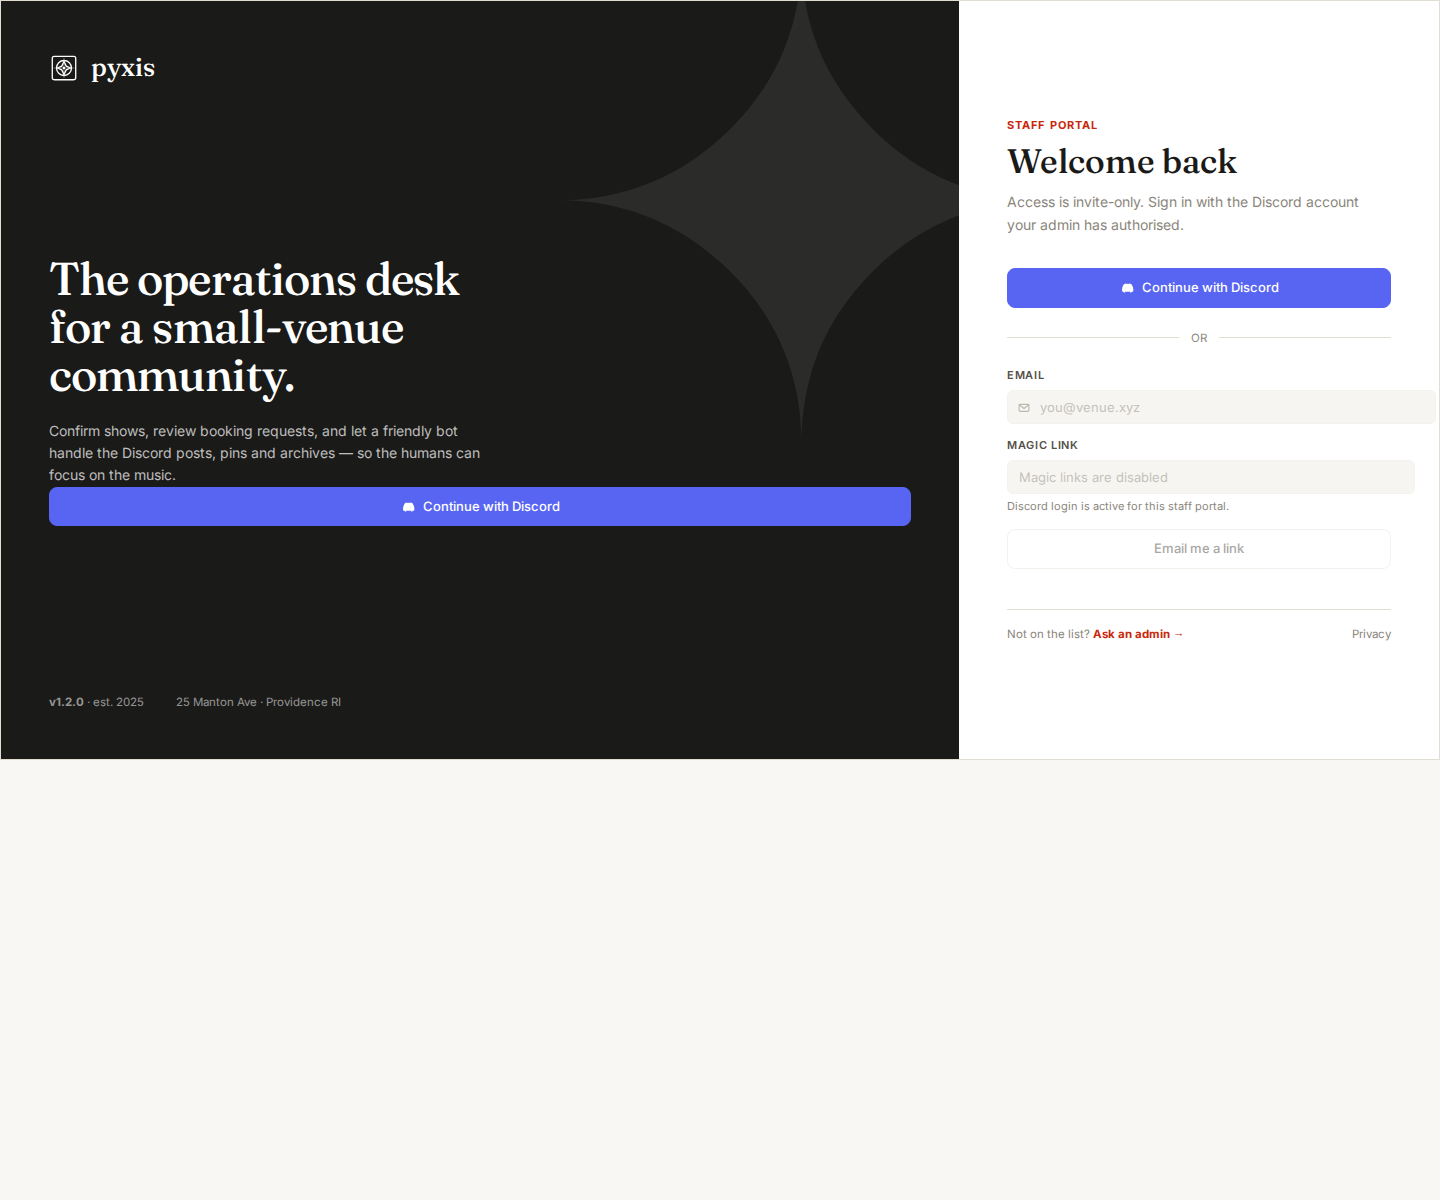
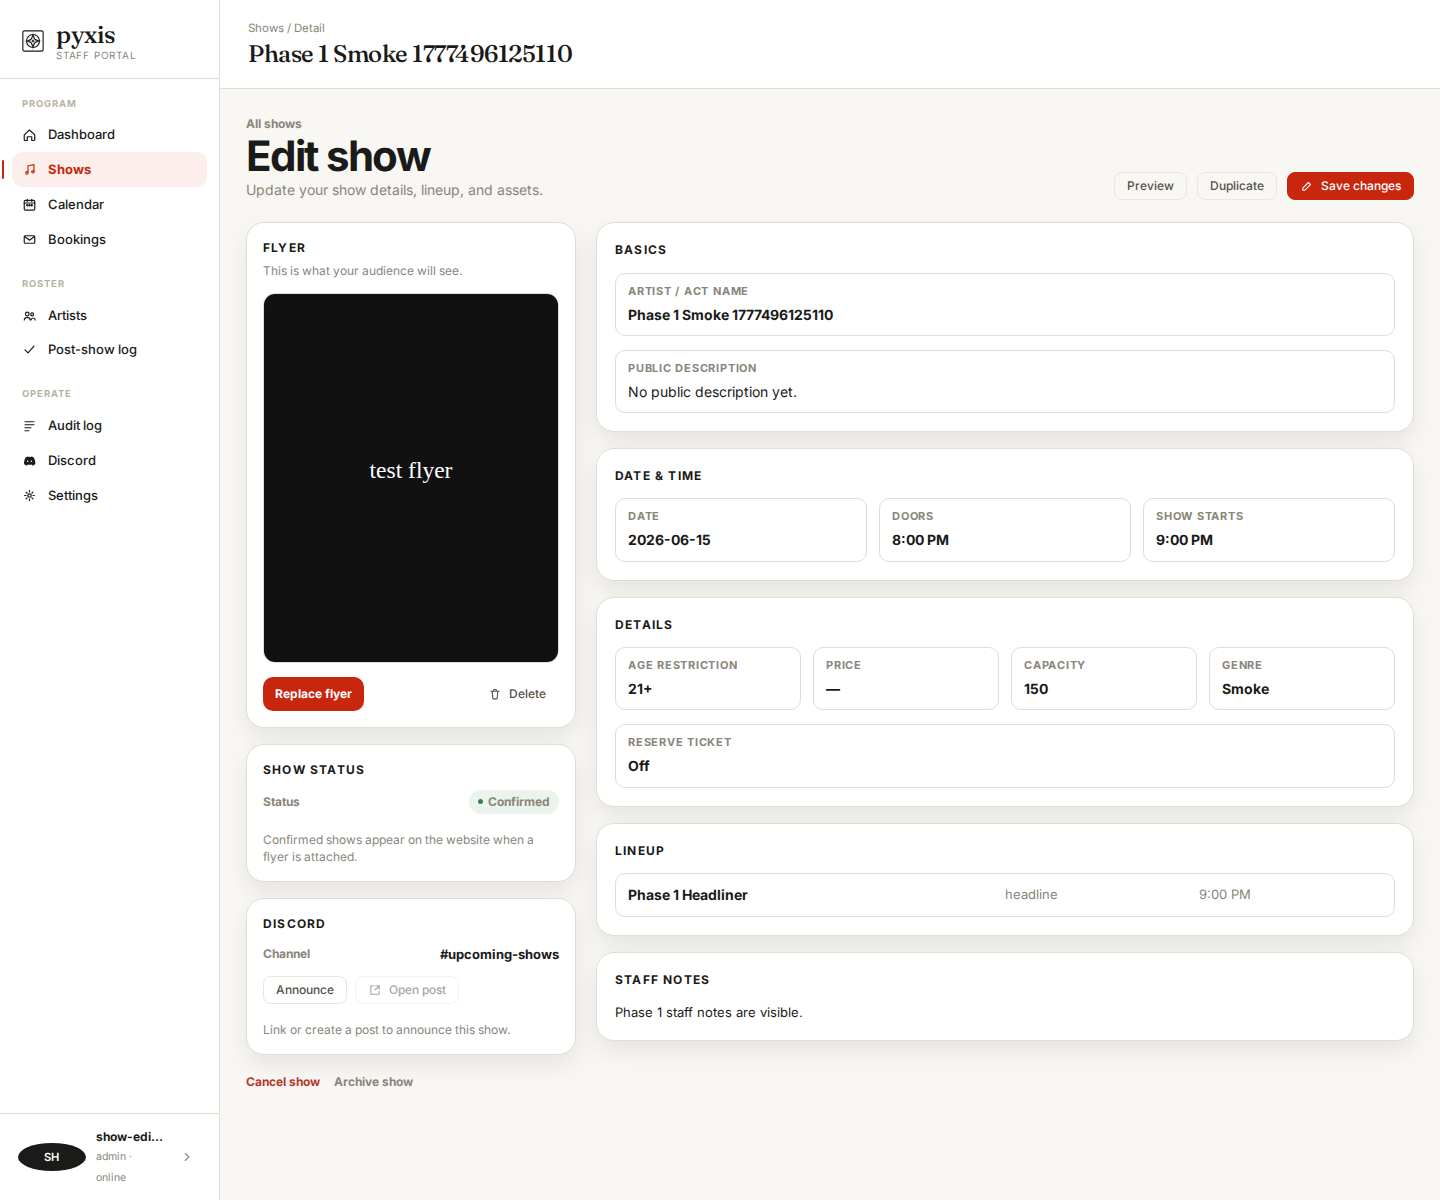
PYXIS-SHOW-EDIT-VISUAL-REDESIGN: authenticate show edit smoke

diff --git a/ttmp/2026/04/29/PYXIS-SHOW-EDIT-VISUAL-REDESIGN--redesign-pyxis-show-edit-modal-and-show-edit-page/scripts/04-smoke-show-edit-page.js b/ttmp/2026/04/29/PYXIS-SHOW-EDIT-VISUAL-REDESIGN--redesign-pyxis-show-edit-modal-and-show-edit-page/scripts/04-smoke-show-edit-page.js
@@ -14,6 +14,8 @@ await fs.mkdir(outDir, { recursive: true });
 const browser = await chromium.launch({ headless: true });
 try {
   const page = await browser.newPage({ viewport: { width: 1440, height: 1200 }, deviceScaleFactor: 1 });
+  const loginUrl = `${baseUrl}/auth/dev-login?username=show-edit-smoke&role=admin`;
+  await page.goto(loginUrl, { waitUntil: 'networkidle' });
   const url = `${baseUrl}/shows/${showId}`;
   await page.goto(url, { waitUntil: 'networkidle' });
   const title = await page.title();
@@ -27,6 +29,9 @@ try {
     await page.getByText('Edit show').first().waitFor({ timeout: 15000 });
     await page.getByText('Basics').first().waitFor({ timeout: 15000 });
     await page.getByText('Flyer').first().waitFor({ timeout: 15000 });
+    await page.getByRole('button', { name: /save changes/i }).click();
+    await page.getByRole('dialog').waitFor({ timeout: 15000 });
+    await page.getByRole('button', { name: /^cancel$/i }).click();
   }
   const screenshot = path.join(outDir, `show-${showId}-page.png`);
   await page.screenshot({ path: screenshot, fullPage: true });

diff --git a/ttmp/2026/04/29/PYXIS-SHOW-EDIT-VISUAL-REDESIGN--redesign-pyxis-show-edit-modal-and-show-edit-page/reference/01-show-edit-visual-redesign-diary.md b/ttmp/2026/04/29/PYXIS-SHOW-EDIT-VISUAL-REDESIGN--redesign-pyxis-show-edit-modal-and-show-edit-page/reference/01-show-edit-visual-redesign-diary.md
@@ -508,3 +508,45 @@ Result:
 ```
 
 This confirms the local route is auth-gated in the current dev session. It does not yet validate the authenticated edit view. Task T604 remains open for a future authenticated smoke.
+
+
+## Step 15: Authenticated show edit route smoke
+
+I updated `scripts/04-smoke-show-edit-page.js` to visit:
+
+```text
+/auth/dev-login?username=show-edit-smoke&role=admin
+```
+
+before opening:
+
+```text
+/shows/31
+```
+
+The first authenticated attempt found the edit page and opened the save-confirm dialog, but failed when closing the dialog because the selector was too broad:
+
+```text
+locator.click: Error: strict mode violation: getByRole('button', { name: /cancel/i }) resolved to 2 elements
+1) Cancel
+2) Cancel show
+```
+
+I fixed this by changing the selector to an exact regular expression:
+
+```text
+getByRole('button', { name: /^cancel$/i })
+```
+
+Final smoke result:
+
+```json
+{
+  "ok": true,
+  "url": "http://localhost:3008/shows/31",
+  "loggedInRoute": true,
+  "loginRoute": false
+}
+```
+
+The route smoke now validates that the decomposed show edit page renders behind dev auth, includes `Edit show`, `Basics`, and `Flyer`, and that the save-confirm dialog opens and can be closed without accidentally clicking `Cancel show`.

diff --git a/ttmp/2026/04/29/PYXIS-SHOW-EDIT-VISUAL-REDESIGN--redesign-pyxis-show-edit-modal-and-show-edit-page/changelog.md b/ttmp/2026/04/29/PYXIS-SHOW-EDIT-VISUAL-REDESIGN--redesign-pyxis-show-edit-modal-and-show-edit-page/changelog.md
@@ -61,3 +61,9 @@ LastUpdated: 2026-04-29T18:40:00-04:00
 - Added `scripts/03-capture-show-edit-stories.js` and captured Storybook evidence for `ShowEditHeader`, `ShowFlyerCard`, `ShowEditRail`, and `ShowEditMain`.
 - Added `scripts/04-smoke-show-edit-page.js`; local unauthenticated route smoke reached the login route, confirming auth gating but not the authenticated edit view.
 - Stored outputs under `sources/11-show-edit-storybook-captures/` and `sources/12-show-edit-route-smoke/`.
+
+## 2026-04-30 — Authenticated show edit route smoke
+
+- Updated `scripts/04-smoke-show-edit-page.js` to use the local `PYXIS_DEV_AUTH=1` `/auth/dev-login` flow before visiting `/shows/31`.
+- Smoke now verifies the authenticated show edit route renders `Edit show`, `Basics`, and `Flyer`, opens the save-confirm dialog, and closes it with the exact `Cancel` button.
+- Replaced the earlier unauthenticated login-gating smoke output with authenticated evidence in `sources/12-show-edit-route-smoke/`.

diff --git a/ttmp/2026/04/29/PYXIS-SHOW-EDIT-VISUAL-REDESIGN--redesign-pyxis-show-edit-modal-and-show-edit-page/tasks.md b/ttmp/2026/04/29/PYXIS-SHOW-EDIT-VISUAL-REDESIGN--redesign-pyxis-show-edit-modal-and-show-edit-page/tasks.md
@@ -75,7 +75,7 @@ LastUpdated: 2026-04-29T18:40:00-04:00
 - [x] T601 Tune the show edit page toward `show-admin-reference.png`: header, two-column rail/main layout, cards, spacing, mobile stacking.
 - [x] T602 Keep inactive/future actions honest: disable, omit, or implement before showing as active.
 - [x] T603 Capture current/final page screenshots and store evidence under `sources/`.
-- [ ] T604 Run authenticated browser smoke for create/edit/show detail flows; unauthenticated route smoke currently verifies login gating only.
+- [x] T604 Run authenticated browser smoke for create/edit/show detail flows; local dev-login smoke verifies show detail edit page and save-confirm dialog path.
 - [ ] T605 Commit page visual polish and evidence.
 - [x] T606 Add next-session restart runbook with lessons learned and restart shortcuts.
 